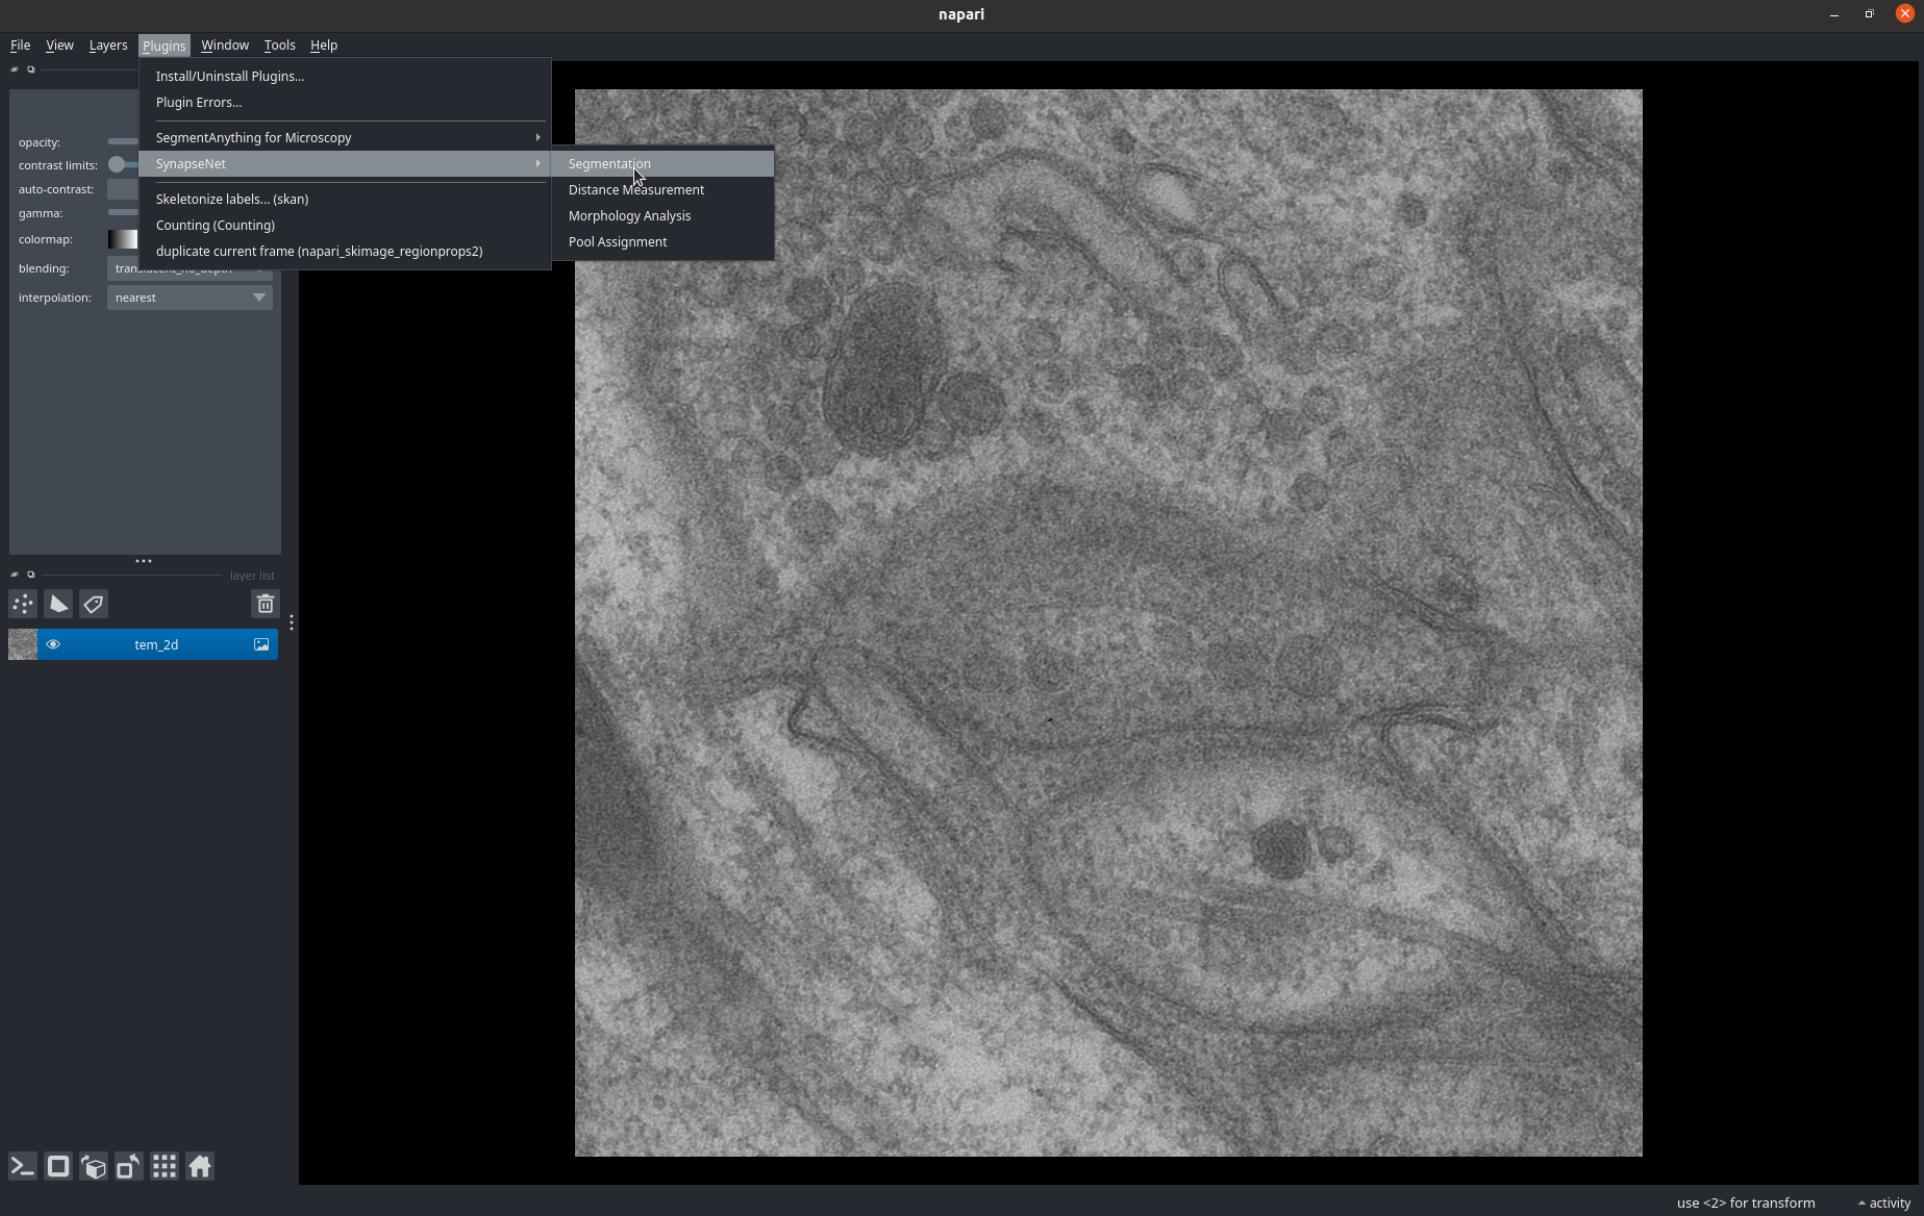
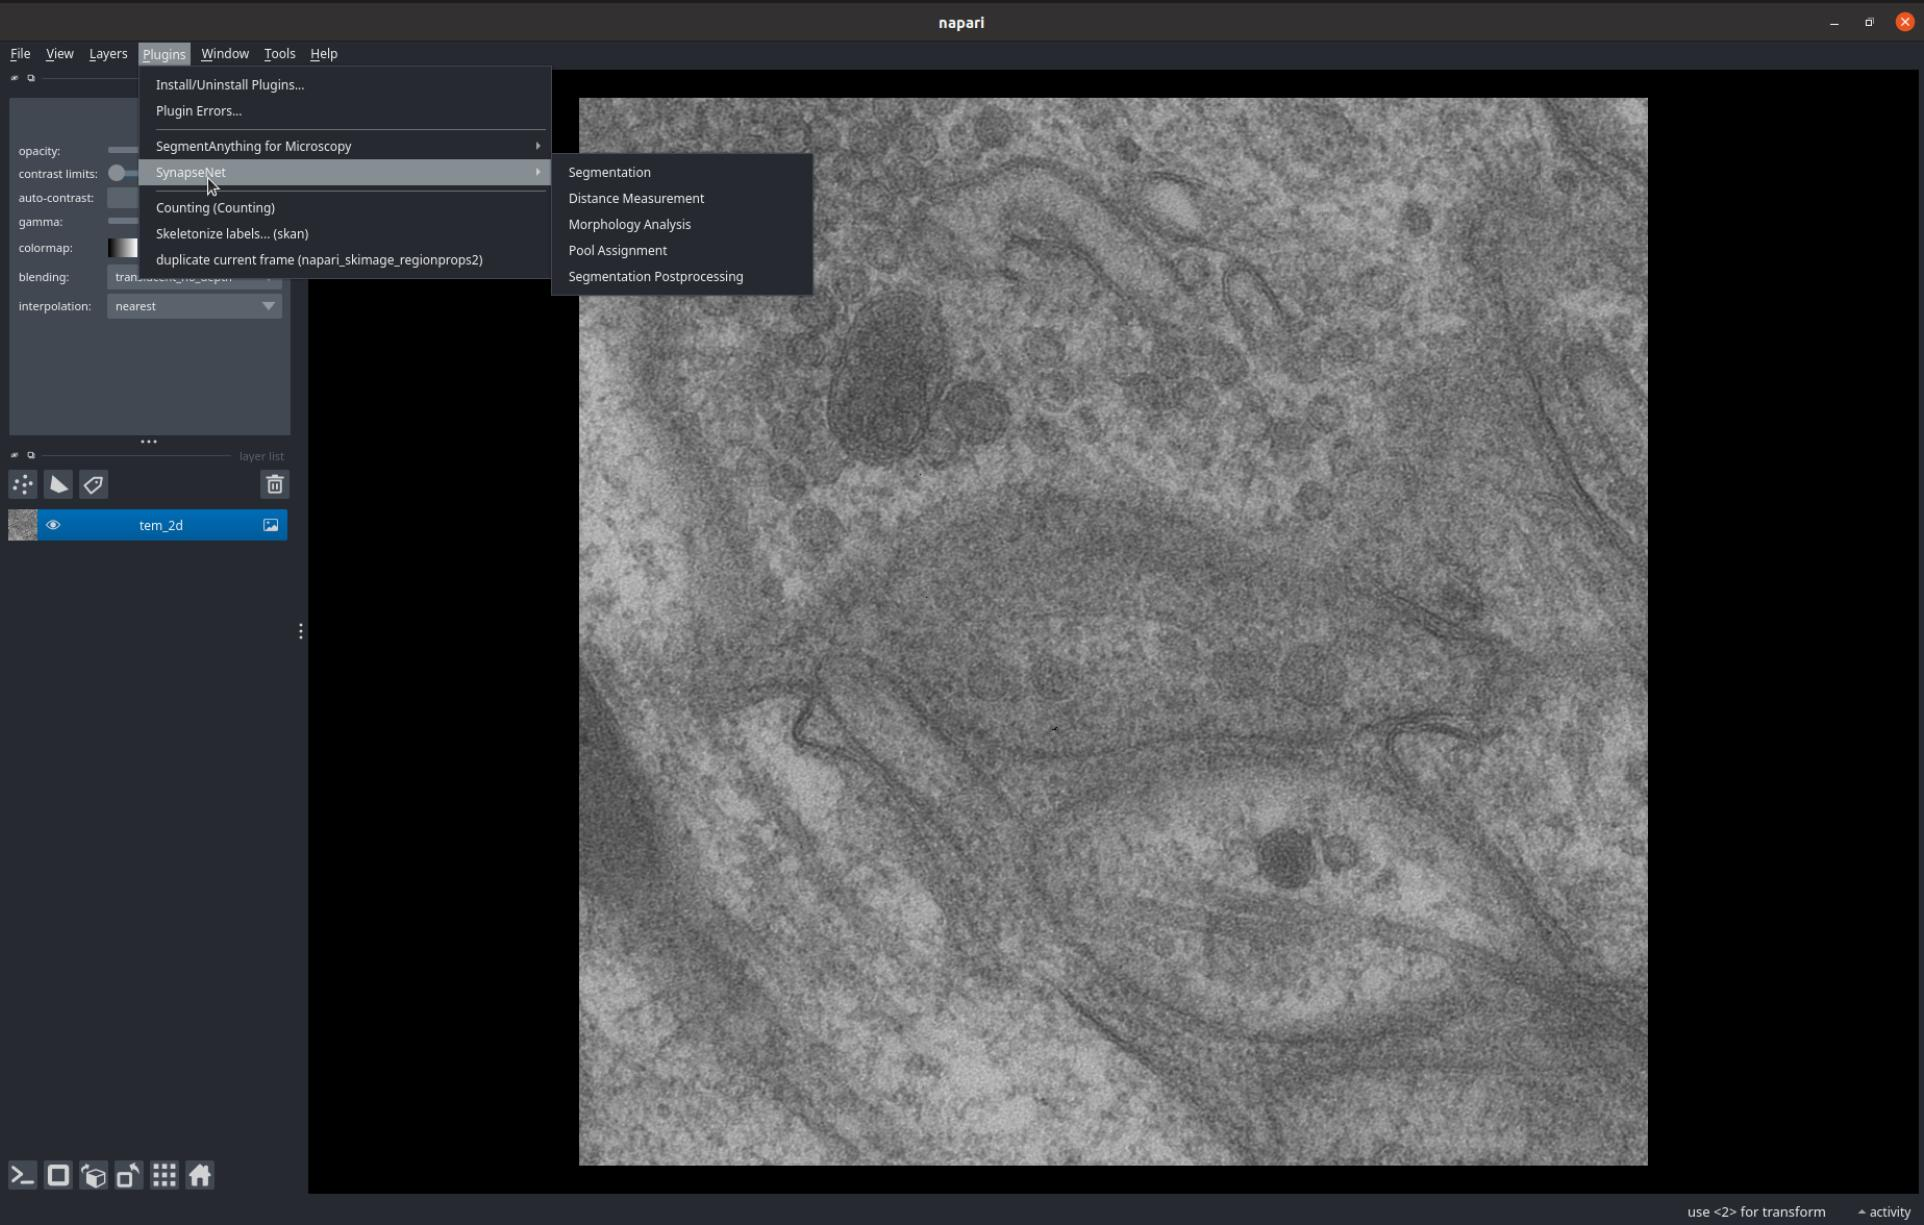
Update documentation

diff --git a/doc/start_page.md b/doc/start_page.md
@@ -60,7 +60,7 @@ to use them.
 
 ## Segmentation Models
 
-We currently offer 7 different models for segmenting synaptic structures:
+We currently offer seven different models for segmenting synaptic structures:
 - `vesicles_3d` to segment vesicles in (room-temperature) electron tomograms.
 - `vesicles_2d` to segment vesicles in two-dimensional electron micrographs.
 - `vesicles_cryo` to segment vesicles in cryogenic electron tomograms.
@@ -72,7 +72,42 @@ We currently offer 7 different models for segmenting synaptic structures:
 
 ## Napari Plugin
 
-**The napari plugin will be documented in the next few days!**
+After installing SynapseNet you can start napari by activating the `synapse-net` environment (or another environment you installed it in) and executing the `napari` command.
+Once napari is opened, you can load a tomogram (or other image data), by drag'n'dropping the corresponding mrc file onto the napari window.
+
+You can find the SynapseNet widgets in the menu `Plugin->SynapseNet`, see also the screenshot below.
+We currently provide five different plugins, which are explained in the following paragraphs.
+
+<img src="https://raw.githubusercontent.com/computational-cell-analytics/synapse-net/refs/heads/main/doc/images/napari/napari1-plugin-menu.jpg" alt="The napari plugin widget with selection of the SynapseNet plugins." width="768">
+
+The `Segmentation` widget enables segmenting synaptic structures with the SynapseNet [models](#segmentation-models).
+You can select the image layer for which to run segmentation from the `Image data` dropdown and the model to use from the `Select Model` dropdown.
+Then press `Run Segmentation`. To display a progress bar click on `activity` in the lower right.
+The screenshot below shows the Segmentation UI and a segmentation result for 2D vesicle segmentation.
+
+<img src="https://raw.githubusercontent.com/computational-cell-analytics/synapse-net/refs/heads/main/doc/images/napari/napari2-segmentation-widget.jpg" alt="The napari plugin widget with selection of the SynapseNet plugins." width="768">
+
+The `Distance Measurement` widget measures distances between segmented vesicles and another object. You can select the vesicle segmentation from the `Segmentation` dropdown and the object from the `Object` dropdown.
+Then press `Measure Distances` to measure the distances, which will be displayed as red lines in the image.
+The measured values will be shown in a table, which can also be saved to a csv file.
+The screenshot below shows distances measured between the vesicles and active zone (red structure).
+Alternatively, you can measure the pairwise distances between individual vesicles via `Measure Pairwise Distances`.
+
+<img src="https://raw.githubusercontent.com/computational-cell-analytics/synapse-net/refs/heads/main/doc/images/napari/napari3-distance-widget.jpg" alt="The napari plugin widget with selection of the SynapseNet plugins." width="768">
+
+The `Morphology Analysis` widget measures morphometric features, such as radii and intensity statistics for vesicles, or surface area and volume for other structures. The widget functions similar to the distance measurement.
+
+<img src="https://raw.githubusercontent.com/computational-cell-analytics/synapse-net/refs/heads/main/doc/images/napari/napari4-morphology-widget.jpg" alt="The napari plugin widget with selection of the SynapseNet plugins." width="768">
+
+The `Pool Assignment` widget groups vesicles into different pools based on the distance and morphology measurements from the previous widgets.
+Select the vesicles via the `Vesicle Segmentation` dropdown and the distances to up to two different structures via `Distances to Structure` and `Distances to Structure 2`.
+Then, specify the name for a new layer where the pools will be saved via `Layer Name`, the name for the current pool via `Vesicle Pool` and the criterion for the pool via `Criterion`. Pressing `Create Vesicle Pool` creates the assignment for the pool by copying the vesicles that meet the criterion to the specified layer.
+You can press it multiple times for different criteria to group the vesicles into different pools.
+The screenshot below shows a grouping of vesicles into 'close' (red) and 'far' (blue) vesicles based on their distance to the active zone.
+
+<img src="https://raw.githubusercontent.com/computational-cell-analytics/synapse-net/refs/heads/main/doc/images/napari/napari5-pool-widget.jpg" alt="The napari plugin widget with selection of the SynapseNet plugins." width="768">
+
+In addition, the `Segmentation Postprocessing` widget can be used to filter out objects that do not overlap with a mask, e.g. a synaptic compartment, or to intersect a segmentation with the boundaries of a mask.
 
 
 ## Command Line Functionality
@@ -113,7 +148,7 @@ We offer different functionality for segmenting and analyzing synapses in electr
 - `synapse_net.imod` for importing and exporting segmentations from / to IMOD.
 - `synapse_net.training` for training U-Nets for synaptic structure segmentation, either via [domain adaptation](#domain-adaptation) or [using data with annotations](network-training).
 
-Please refer to the library documentation below for a full overview of our library's functionality.
+Please refer to the module documentation below for a full overview of our library's functionality.
 
 ### Domain Adaptation
 
